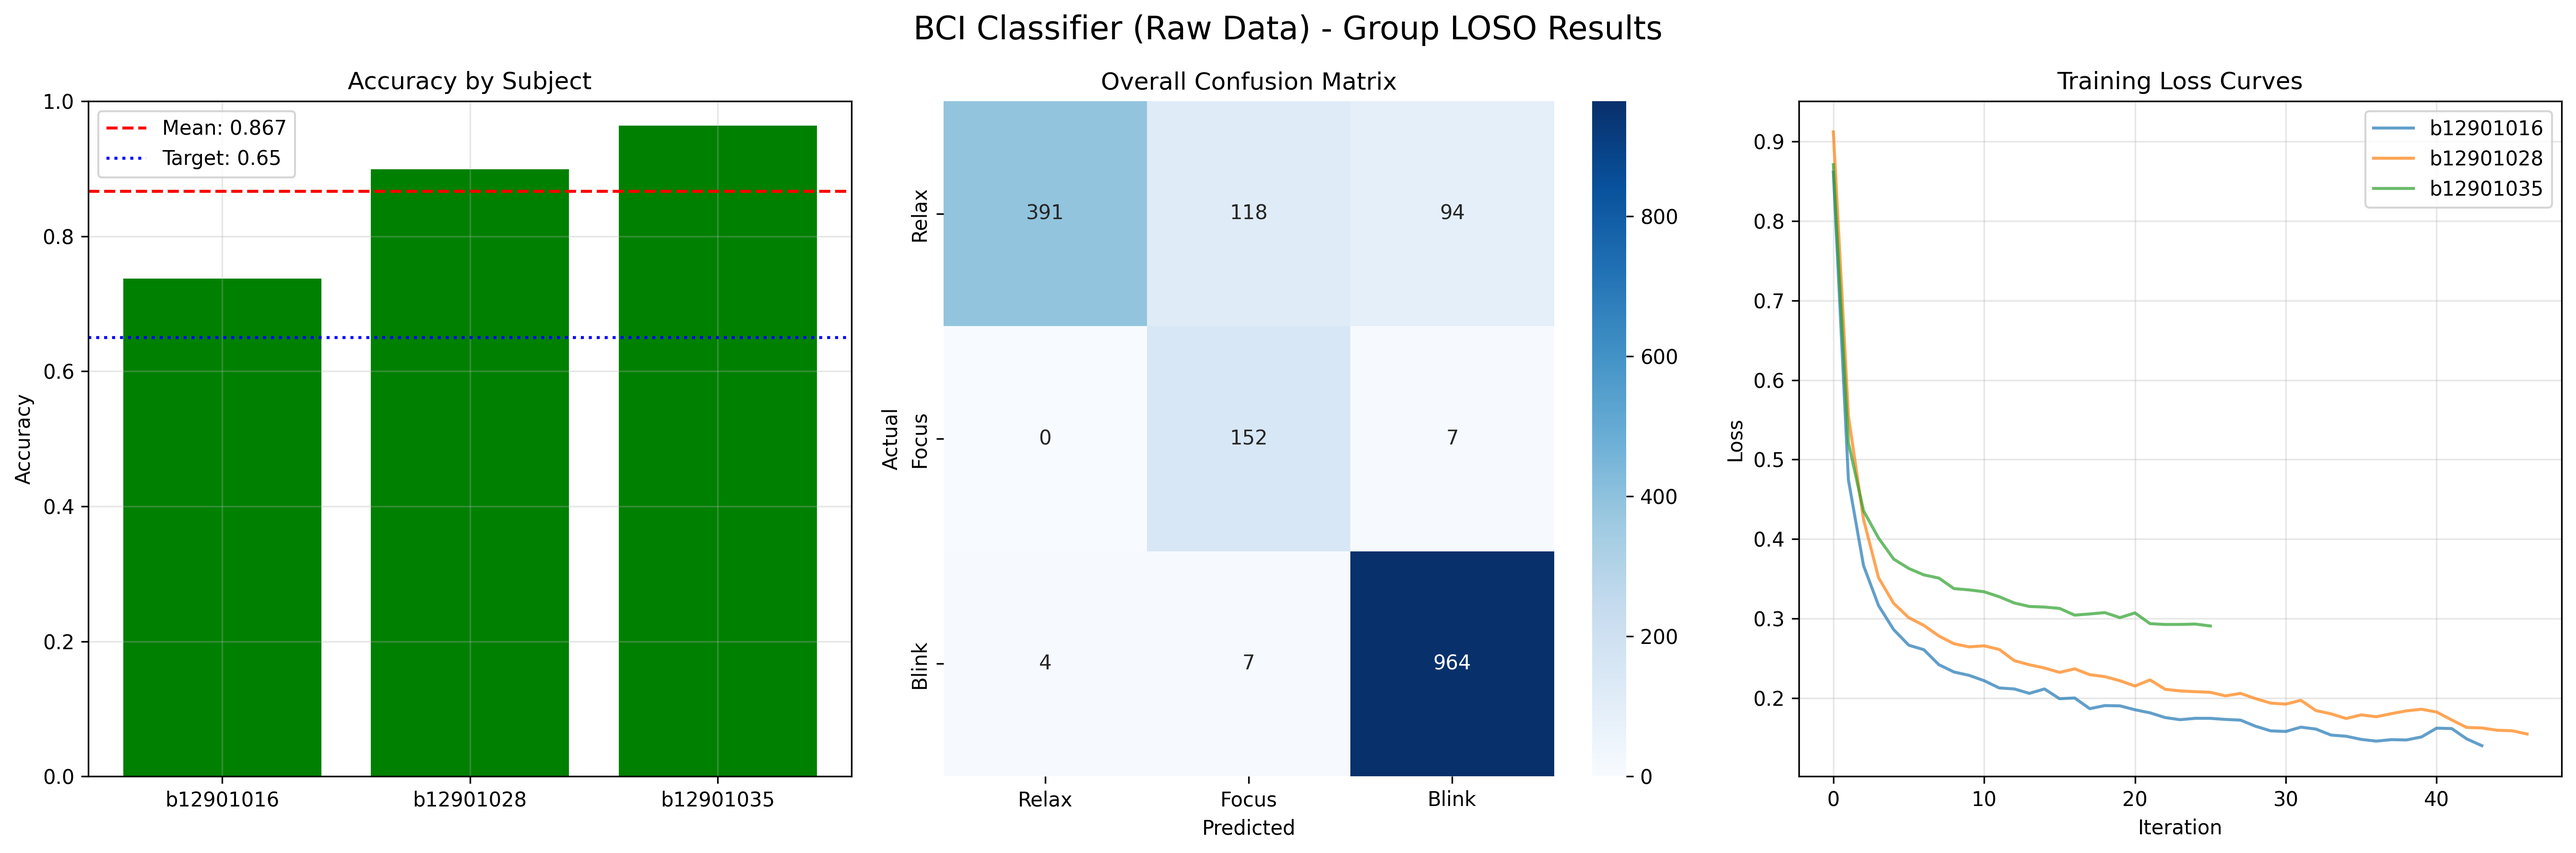
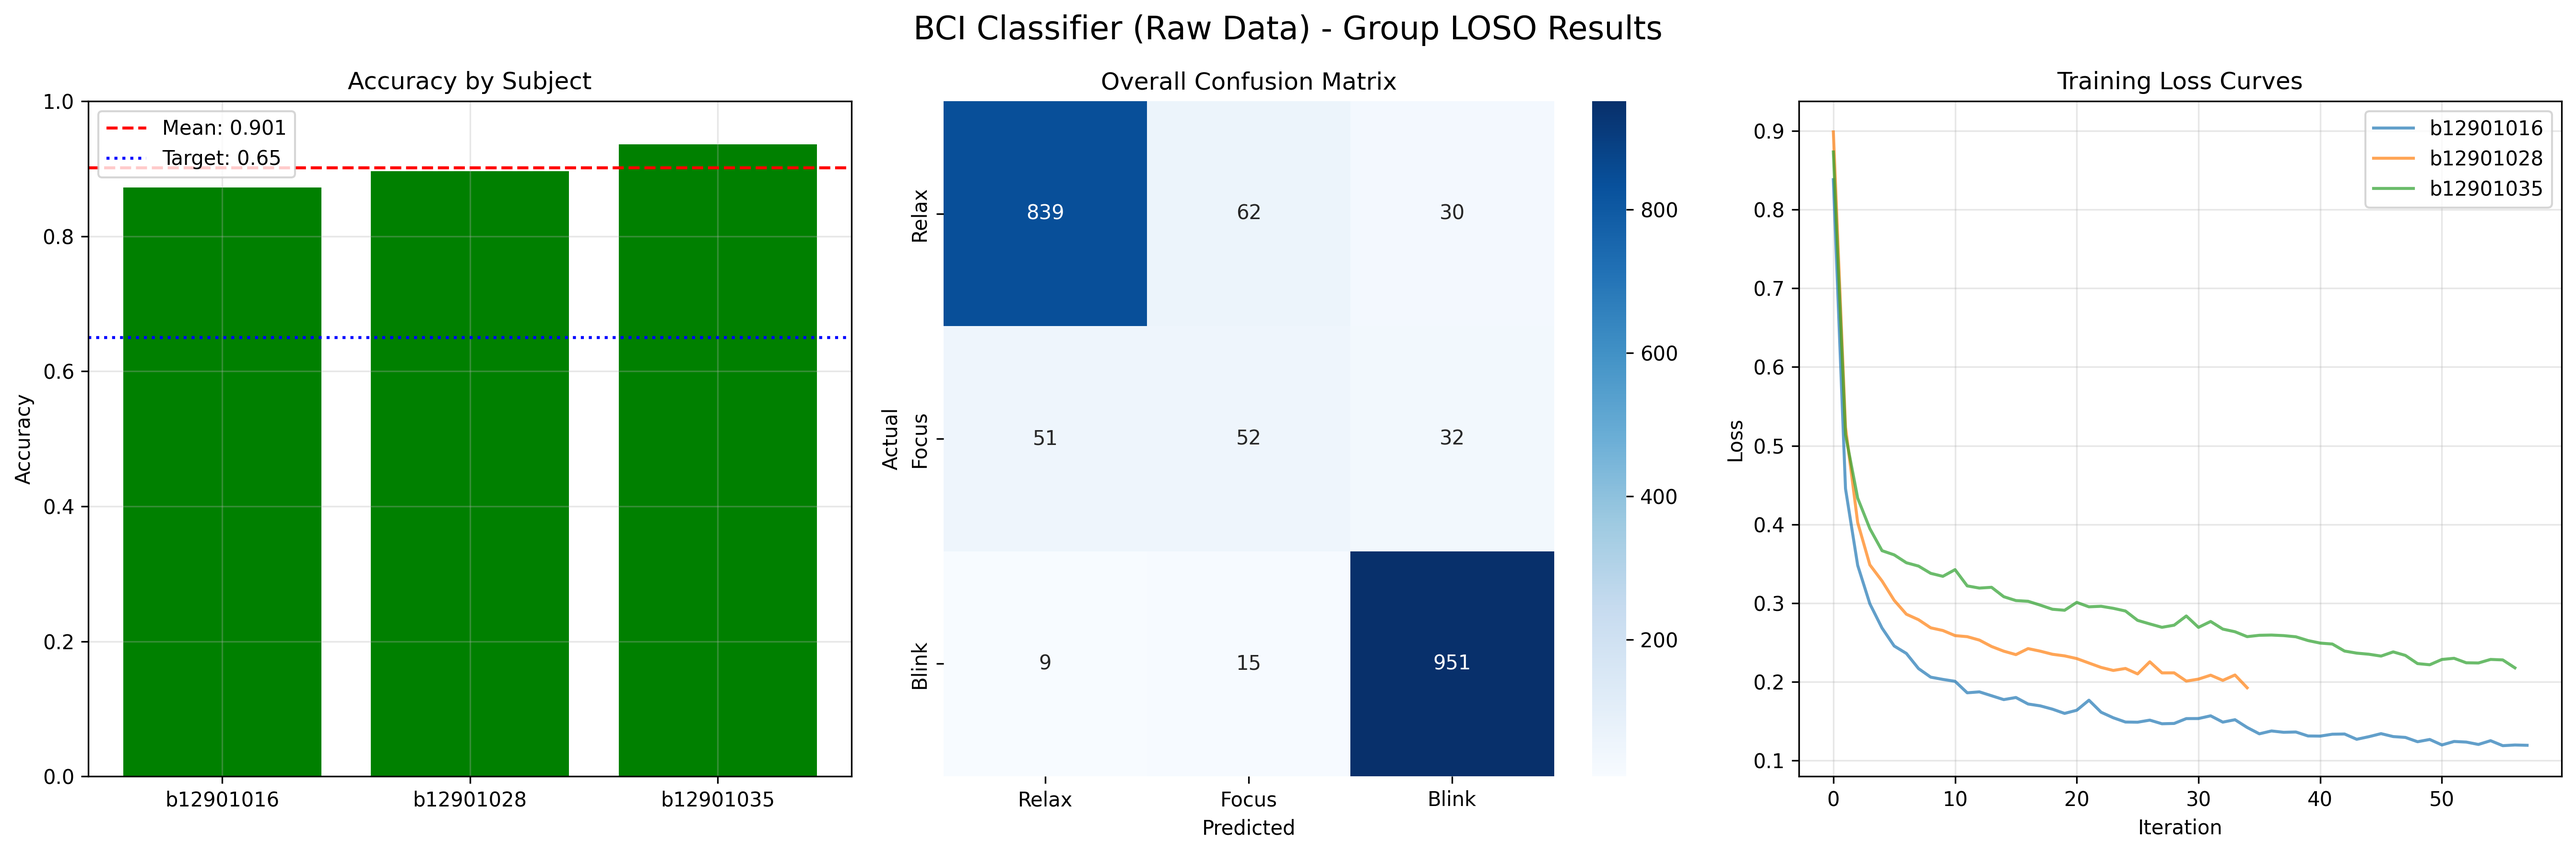
threshold of RELAX to 1500u; FOCUS 800u

diff --git a/main_origin.py b/main_origin.py
@@ -1,0 +1,338 @@
+"""
+Brain-Computer Interface MLP Classifier (BrainLink Version)
+For EEG signal relaxation/focus/blink state classification
+USE RAW DATA AS INPUT
+"""
+
+import numpy as np
+import matplotlib.pyplot as plt
+import seaborn as sns
+from sklearn.preprocessing import StandardScaler
+from sklearn.metrics import accuracy_score, confusion_matrix
+from sklearn.neural_network import MLPClassifier
+from sklearn.feature_selection import SelectKBest, f_classif
+import os
+import glob
+import warnings
+warnings.filterwarnings('ignore')
+
+# Parameter Settings
+class Config:
+    # Dataset path settings
+    DATASET_PATH = "bci_dataset_114-2"
+    
+    # MLP model parameters
+    HIDDEN_LAYERS = (128, 64, 32)
+    MAX_ITER = 100
+    LEARNING_RATE = 0.001
+    ALPHA = 0.001
+    ACTIVATION = 'relu'
+    SOLVER = 'adam'
+    BATCH_SIZE = 64
+    EARLY_STOPPING = True
+    VALIDATION_FRACTION = 0.1
+    N_ITER_NO_CHANGE = 10
+    
+    # Signal processing parameters
+    SAMPLING_RATE = 512    # BrainLink fixed sampling rate
+    SEGMENT_LENGTH = 5     # Segment length in seconds
+    OVERLAP_RATIO = 0.6    # Overlap ratio for segments
+    
+    # Feature selection parameters
+    FEATURE_SELECTION = True
+    N_FEATURES_SELECT = 30 # Modify preprocessing to extract truly effective features
+    
+    # Other settings
+    RANDOM_STATE = 42
+
+def create_segments(data, segment_length_samples, overlap_samples):
+    """Split a single round of continuous EEG signal into multiple segments"""
+    if len(data) < segment_length_samples:
+        return []
+    
+    segments = []
+    start = 0
+    step = segment_length_samples - overlap_samples
+    
+    while start + segment_length_samples <= len(data):
+        segment = data[start:start + segment_length_samples]
+        
+        # ==========================================
+        # === STUDENT PREPROCESSING HERE (Part 1)===
+        # ==========================================
+ 
+        segments.append(segment)
+        start += step
+    
+    return segments
+
+def extract_features(segments):
+    """
+    Perform feature engineering on segments
+    """
+    features = []
+    for seg in segments:
+        # ==========================================
+        # === STUDENT PREPROCESSING HERE (Part 2)===
+        # ==========================================
+        
+        current_feature = seg 
+        features.append(current_feature)
+        
+    return np.array(features)
+
+def load_all_subjects():
+    """Load round-based data for all subjects in the group"""
+    all_features = []
+    all_labels = []
+    all_subjects = []
+    
+    if not os.path.exists(Config.DATASET_PATH):
+        print(f"Error: Directory '{Config.DATASET_PATH}' not found")
+        return None, None, None
+        
+    subject_folders = sorted([f.path for f in os.scandir(Config.DATASET_PATH) if f.is_dir()])
+    
+    if len(subject_folders) < 2:
+        print("Error: Not enough subjects. At least 2 subject folders are required for cross-validation.")
+        return None, None, None
+        
+    print(f"Found {len(subject_folders)} subjects. Loading data...")
+    
+    segment_length_samples = int(Config.SEGMENT_LENGTH * Config.SAMPLING_RATE)
+    overlap_samples = int(segment_length_samples * Config.OVERLAP_RATIO)
+
+    for subject_folder in subject_folders:
+        subject_id = os.path.basename(subject_folder)
+        relax_segments = []
+        focus_segments = []
+        blink_segments = []
+        
+        # Load Task 1 (Relax) all rounds
+        task1_files = glob.glob(os.path.join(subject_folder, "*_1_*.txt"))
+        for file in task1_files:
+            try:
+                data = np.loadtxt(file)
+                segs = create_segments(data, segment_length_samples, overlap_samples)
+                relax_segments.extend(segs)
+            except Exception as e:
+                print(f"Error reading {file}: {e}")
+
+        # Load Task 2 (Focus) all rounds
+        task2_files = glob.glob(os.path.join(subject_folder, "*_2_*.txt"))
+        for file in task2_files:
+            try:
+                data = np.loadtxt(file)
+                segs = create_segments(data, segment_length_samples, overlap_samples)
+                focus_segments.extend(segs)
+            except Exception as e:
+                print(f"Error reading {file}: {e}")
+        
+        # Load Task 3 (Blink) all rounds
+        task3_files = glob.glob(os.path.join(subject_folder, "*_3_*.txt"))
+        for file in task3_files:
+            try:
+                data = np.loadtxt(file)
+                segs = create_segments(data, segment_length_samples, overlap_samples)
+                blink_segments.extend(segs)
+            except Exception as e:
+                print(f"Error reading {file}: {e}")
+
+        if len(relax_segments) == 0 or len(focus_segments) == 0 or len(blink_segments) == 0:
+            print(f"Warning: Insufficient data for {subject_id}. Skipping.")
+            continue
+
+        # Extract features
+        relax_features = extract_features(relax_segments)
+        focus_features = extract_features(focus_segments)
+        blink_features = extract_features(blink_segments)
+        
+        # Create labels (0=Relax, 1=Focus, 2=Blink)
+        relax_labels = np.zeros(len(relax_features))
+        focus_labels = np.ones(len(focus_features))
+        blink_labels = np.full(len(blink_features), 2)
+        
+        # Combine subject data
+        subject_features = np.vstack([relax_features, focus_features, blink_features])
+        subject_labels = np.hstack([relax_labels, focus_labels, blink_labels])
+        subject_ids = [subject_id] * len(subject_labels)
+        
+        all_features.append(subject_features)
+        all_labels.append(subject_labels)
+        all_subjects.extend(subject_ids)
+        
+        print(f" - {subject_id}: Successfully loaded {len(relax_segments)} Relax, {len(focus_segments)} Focus, {len(blink_segments)} Blink segments")
+    
+    if not all_features:
+        return None, None, None
+    
+    return np.vstack(all_features), np.hstack(all_labels), all_subjects
+
+
+class EnhancedBCIClassifier:
+    def __init__(self):
+        self.model = MLPClassifier(
+            hidden_layer_sizes=Config.HIDDEN_LAYERS,
+            max_iter=Config.MAX_ITER,
+            learning_rate_init=Config.LEARNING_RATE,
+            alpha=Config.ALPHA,
+            activation=Config.ACTIVATION,
+            solver=Config.SOLVER,
+            batch_size=Config.BATCH_SIZE,
+            early_stopping=Config.EARLY_STOPPING,
+            validation_fraction=Config.VALIDATION_FRACTION,
+            n_iter_no_change=Config.N_ITER_NO_CHANGE,
+            random_state=Config.RANDOM_STATE,
+            verbose=False
+        )
+        self.scaler = StandardScaler()
+        self.feature_selector = SelectKBest(f_classif, k=Config.N_FEATURES_SELECT) if Config.FEATURE_SELECTION else None
+        
+    def fit(self, X, y):
+        X_scaled = self.scaler.fit_transform(X)
+        if self.feature_selector is not None:
+            # Ensure k is not greater than the total number of features
+            self.feature_selector.k = min(Config.N_FEATURES_SELECT, X_scaled.shape[1])
+            X_selected = self.feature_selector.fit_transform(X_scaled, y)
+        else:
+            X_selected = X_scaled
+        
+        self.model.fit(X_selected, y)
+        return self
+    
+    def predict(self, X):
+        X_scaled = self.scaler.transform(X)
+        if self.feature_selector is not None:
+            X_selected = self.feature_selector.transform(X_scaled)
+        else:
+            X_selected = X_scaled
+        
+        # ==========================================
+        # === STUDENT POSTPROCESSING HERE ========
+        # ==========================================
+        # Hint: You can use self.model.predict_proba(X_selected) to get probabilities
+        # and set custom decision thresholds instead of just using predict().
+            
+        return self.model.predict(X_selected)
+    
+    def get_loss_curve(self):
+        return self.model.loss_curve_ if hasattr(self.model, 'loss_curve_') else []
+
+
+def leave_one_subject_out_validation():
+    print("\nStarting Leave-One-Subject-Out (LOSO) Cross-Validation...")
+    
+    X, y, subjects = load_all_subjects()
+    if X is None: return None
+    
+    unique_subjects = sorted(list(set(subjects)))
+    results = {'accuracies': [], 'confusion_matrices': [], 'loss_curves': [], 'subject_names': []}
+    
+    print("\n" + "="*40)
+    for test_subject in unique_subjects:
+        train_mask = [s != test_subject for s in subjects]
+        test_mask = [s == test_subject for s in subjects]
+        
+        X_train, X_test = X[train_mask], X[test_mask]
+        y_train, y_test = y[train_mask], y[test_mask]
+        
+        print(f"Training Model (Test Subject: {test_subject}) | Train size: {len(X_train)}, Test size: {len(X_test)}")
+        
+        classifier = EnhancedBCIClassifier()
+        classifier.fit(X_train, y_train)
+        y_pred = classifier.predict(X_test)
+        
+        accuracy = accuracy_score(y_test, y_pred)
+        cm = confusion_matrix(y_test, y_pred, labels=[0, 1, 2])
+        
+        results['accuracies'].append(accuracy)
+        results['confusion_matrices'].append(cm)
+        results['loss_curves'].append(classifier.get_loss_curve())
+        results['subject_names'].append(test_subject)
+        
+        print(f" -> Accuracy: {accuracy:.3f}")
+    
+    return results
+
+
+def plot_results(results):
+    if results is None: return
+    fig, axes = plt.subplots(1, 3, figsize=(18, 6))
+    fig.suptitle('BCI Classifier (Raw Data) - Group LOSO Results', fontsize=16)
+    
+    # 1. Accuracy distribution
+    subject_names = results['subject_names']
+    axes[0].bar(subject_names, results['accuracies'], 
+                color=['green' if acc >= 0.7 else 'orange' if acc >= 0.65 else 'red' for acc in results['accuracies']])
+    axes[0].set_title('Accuracy by Subject')
+    axes[0].set_ylabel('Accuracy')
+    axes[0].axhline(y=np.mean(results['accuracies']), color='r', linestyle='--', label=f'Mean: {np.mean(results["accuracies"]):.3f}')
+    axes[0].axhline(y=0.65, color='blue', linestyle=':', label='Target: 0.65')
+    axes[0].legend()
+    axes[0].grid(True, alpha=0.3)
+    axes[0].set_ylim(0, 1)
+    
+    # 2. Overall confusion matrix
+    total_cm = np.sum(results['confusion_matrices'], axis=0)
+    sns.heatmap(total_cm, annot=True, fmt='d', cmap='Blues',
+                xticklabels=['Relax', 'Focus', 'Blink'], yticklabels=['Relax', 'Focus', 'Blink'], ax=axes[1])
+    axes[1].set_title('Overall Confusion Matrix')
+    axes[1].set_xlabel('Predicted')
+    axes[1].set_ylabel('Actual')
+    
+    # 3. Training loss curves
+    valid_loss_curves = [lc for lc in results['loss_curves'] if len(lc) > 0]
+    if valid_loss_curves:
+        for i, loss_curve in enumerate(valid_loss_curves):
+            axes[2].plot(loss_curve, alpha=0.7, label=subject_names[i])
+        axes[2].set_title('Training Loss Curves')
+        axes[2].set_xlabel('Iteration')
+        axes[2].set_ylabel('Loss')
+        axes[2].legend()
+        axes[2].grid(True, alpha=0.3)
+    
+    plt.tight_layout()
+    plt.savefig('bci_results_raw_data_origin.png', dpi=300, bbox_inches='tight')
+    plt.show()
+
+def main():
+    print("BCI EEG Classification - Group Evaluation")
+    print("=" * 60)
+    
+    results = leave_one_subject_out_validation()
+    if results is None:
+        print("Validation failed! Please check your directory structure.")
+        return
+    
+    mean_accuracy = np.mean(results['accuracies'])
+    std_accuracy = np.std(results['accuracies'])
+    
+    print("\n" + "="*40)
+    print(f"Overall Mean Accuracy: {mean_accuracy:.3f} 簣 {std_accuracy:.3f}")
+    
+    total_cm = np.sum(results['confusion_matrices'], axis=0)
+    with np.errstate(divide='ignore', invalid='ignore'):
+        relax_accuracy = total_cm[0, 0] / np.sum(total_cm[0, :]) if np.sum(total_cm[0, :]) > 0 else 0
+        concentration_accuracy = total_cm[1, 1] / np.sum(total_cm[1, :]) if np.sum(total_cm[1, :]) > 0 else 0
+        blink_accuracy = total_cm[2, 2] / np.sum(total_cm[2, :]) if np.sum(total_cm[2, :]) > 0 else 0
+        relax_precision = total_cm[0, 0] / np.sum(total_cm[:, 0]) if np.sum(total_cm[:, 0]) > 0 else 0
+        concentration_precision = total_cm[1, 1] / np.sum(total_cm[:, 1]) if np.sum(total_cm[:, 1]) > 0 else 0
+        blink_precision = total_cm[2, 2] / np.sum(total_cm[:, 2]) if np.sum(total_cm[:, 2]) > 0 else 0
+
+    print(f"\n[Relax Class]")
+    print(f"  - Accuracy (Recall): {relax_accuracy:.3f} ({total_cm[0, 0]}/{np.sum(total_cm[0, :])})")
+    print(f"  - Precision: {relax_precision:.3f} ({total_cm[0, 0]}/{np.sum(total_cm[:, 0])})")
+    
+    print(f"\n[Focus Class]")
+    print(f"  - Accuracy (Recall): {concentration_accuracy:.3f} ({total_cm[1, 1]}/{np.sum(total_cm[1, :])})")
+    print(f"  - Precision: {concentration_precision:.3f} ({total_cm[1, 1]}/{np.sum(total_cm[:, 1])})")
+    
+    print(f"\n[Blink Class]")
+    print(f"  - Accuracy (Recall): {blink_accuracy:.3f} ({total_cm[2, 2]}/{np.sum(total_cm[2, :])})")
+    print(f"  - Precision: {blink_precision:.3f} ({total_cm[2, 2]}/{np.sum(total_cm[:, 2])})")
+    
+    plot_results(results)
+    print(f"\nResults saved to 'bci_results_raw_data_origin.png'")
+
+if __name__ == "__main__":
+    main()

diff --git a/main.py b/main.py
@@ -77,7 +77,7 @@ def create_segments(data, segment_length_samples, overlap_samples, task_type):
         # === 核心邏輯：依照任務進行智能過濾 ===
         if task_type == 1: # Relax
             # 放寬 Relax 的標準，多收一點資料進來訓練
-            if peak_amp > 1300: 
+            if peak_amp > 1500: 
                 start += step
                 continue 
         elif task_type == 2: # Focus
